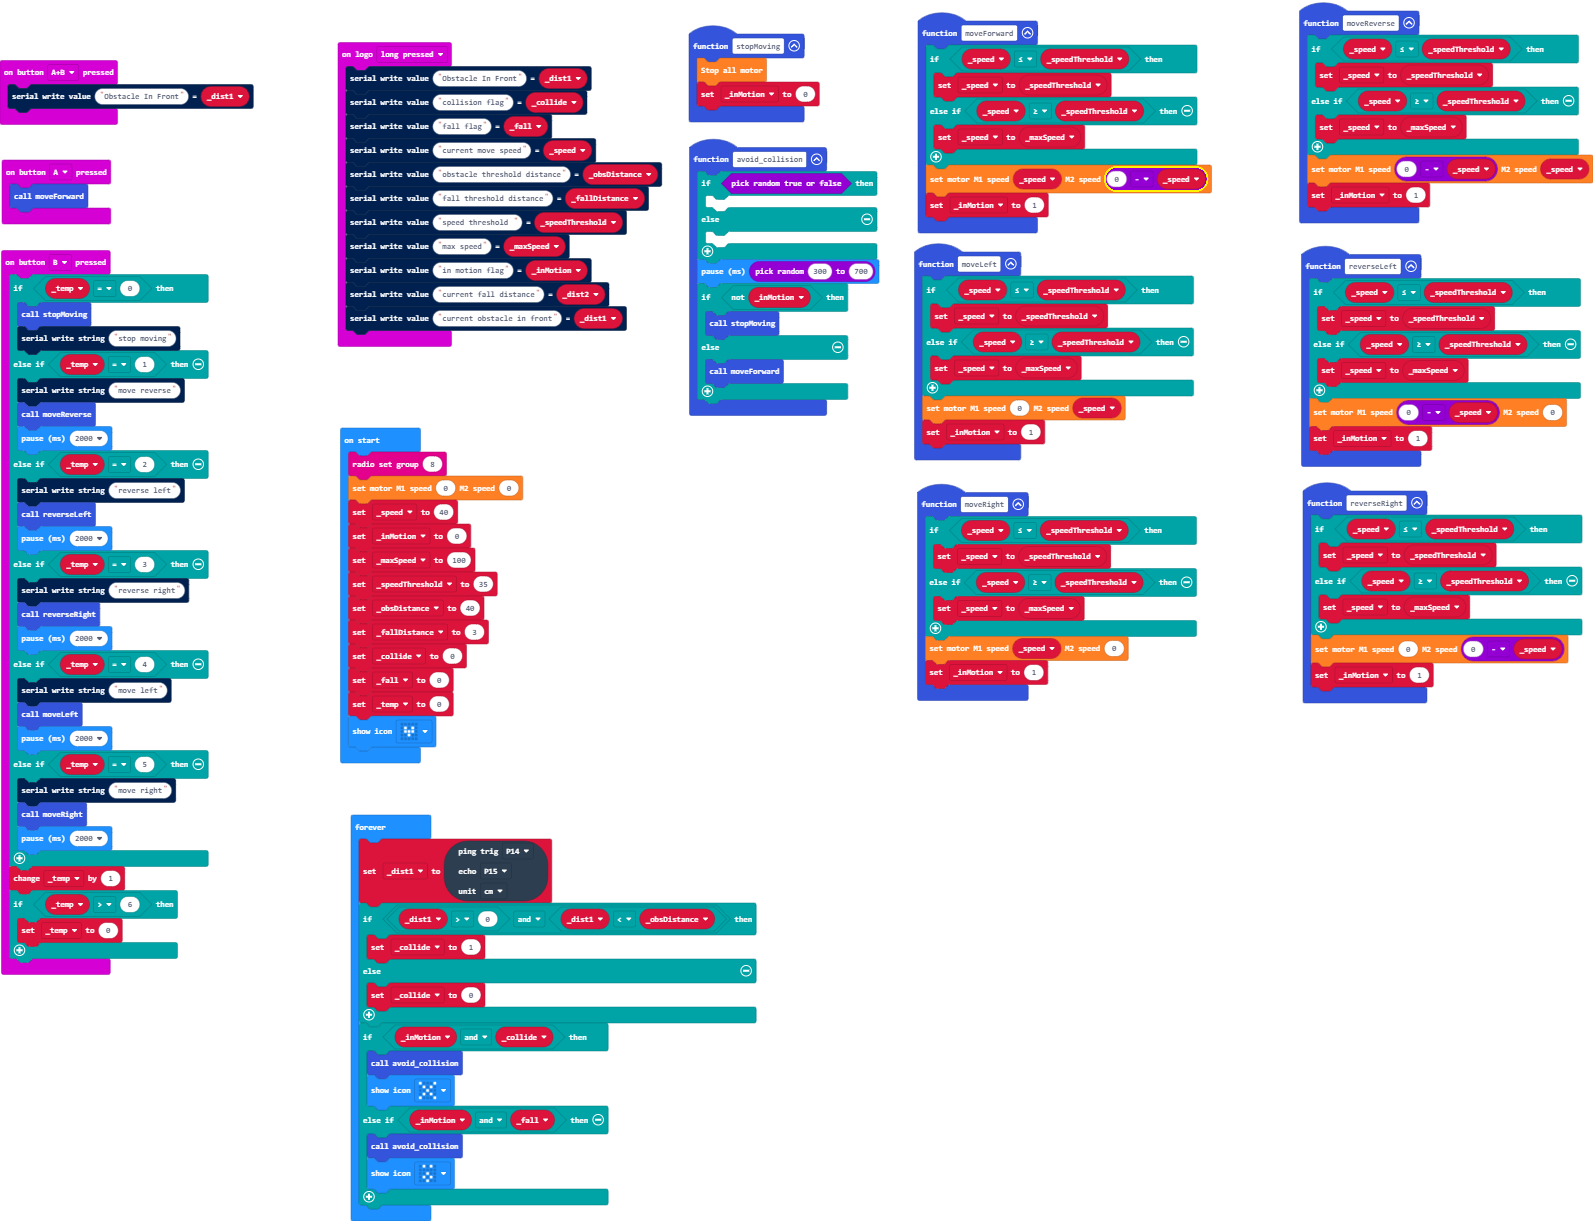
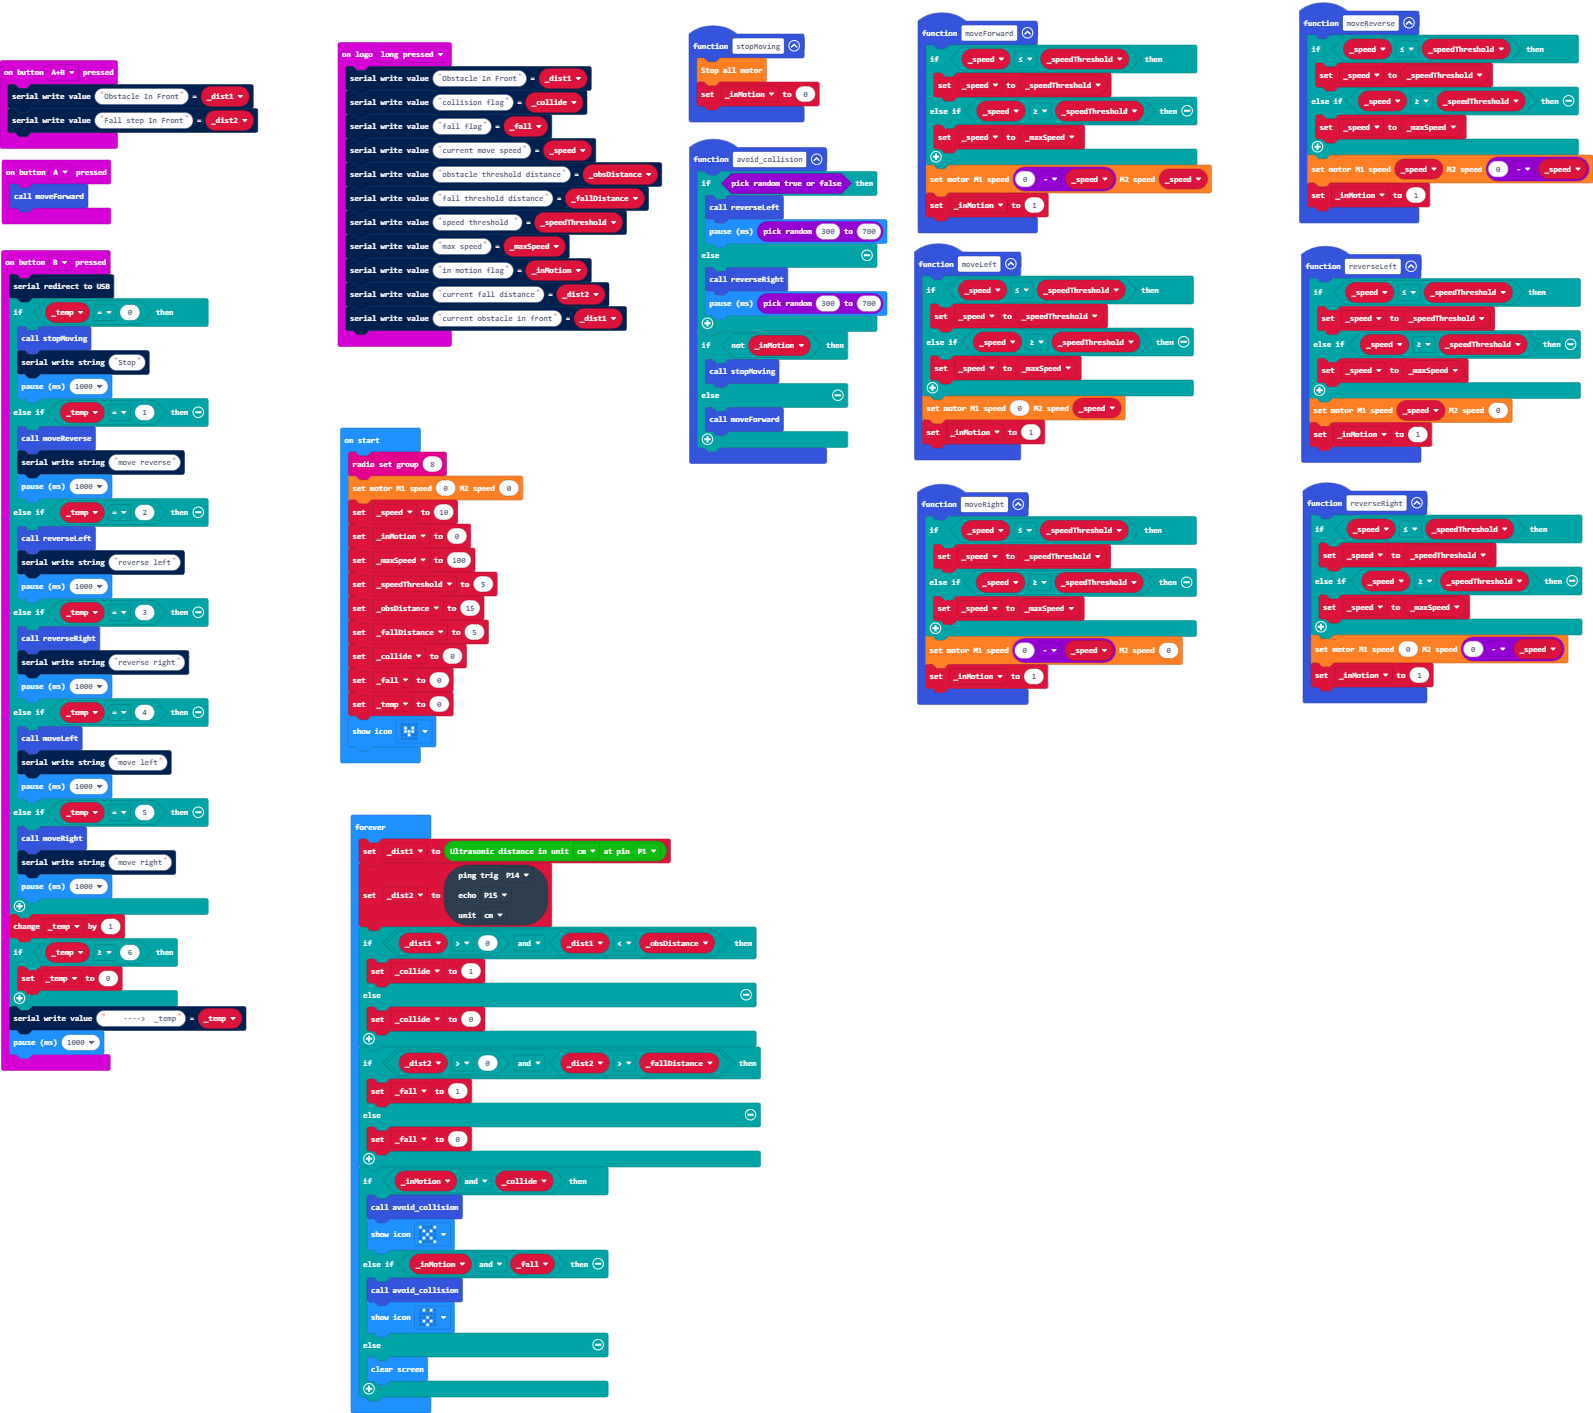
Update pxt.json, main.blocks, main.ts

diff --git a/main.ts b/main.ts
@@ -4,7 +4,7 @@ function moveReverse () {
     } else if (_speed >= _speedThreshold) {
         _speed = _maxSpeed
     }
-    wuKong.setAllMotor(0 - _speed, _speed)
+    wuKong.setAllMotor(_speed, 0 - _speed)
     _inMotion = 1
 }
 function moveRight () {
@@ -13,7 +13,7 @@ function moveRight () {
     } else if (_speed >= _speedThreshold) {
         _speed = _maxSpeed
     }
-    wuKong.setAllMotor(_speed, 0)
+    wuKong.setAllMotor(0 - _speed, 0)
     _inMotion = 1
 }
 function moveForward () {
@@ -22,16 +22,17 @@ function moveForward () {
     } else if (_speed >= _speedThreshold) {
         _speed = _maxSpeed
     }
-    wuKong.setAllMotor(_speed, 0 - _speed)
+    wuKong.setAllMotor(0 - _speed, _speed)
     _inMotion = 1
 }
 function avoid_collision () {
     if (Math.randomBoolean()) {
-    	
+        reverseLeft()
+        basic.pause(randint(300, 700))
     } else {
-    	
+        reverseRight()
+        basic.pause(randint(300, 700))
     }
-    basic.pause(randint(300, 700))
     if (!(_inMotion)) {
         stopMoving()
     } else {
@@ -39,7 +40,6 @@ function avoid_collision () {
     }
 }
 input.onLogoEvent(TouchButtonEvent.LongPressed, function () {
-    let _dist2 = 0
     serial.writeValue("Obstacle In Front", _dist1)
     serial.writeValue("collision flag", _collide)
     serial.writeValue("fall flag", _fall)
@@ -65,41 +65,46 @@ function reverseLeft () {
     } else if (_speed >= _speedThreshold) {
         _speed = _maxSpeed
     }
-    wuKong.setAllMotor(0 - _speed, 0)
+    wuKong.setAllMotor(_speed, 0)
     _inMotion = 1
 }
 input.onButtonPressed(Button.AB, function () {
     serial.writeValue("Obstacle In Front", _dist1)
+    serial.writeValue("Fall step In Front", _dist2)
 })
 input.onButtonPressed(Button.B, function () {
+    serial.redirectToUSB()
     if (_temp == 0) {
         stopMoving()
-        serial.writeString("stop moving")
+        serial.writeString("Stop")
+        basic.pause(1000)
     } else if (_temp == 1) {
-        serial.writeString("move reverse")
         moveReverse()
-        basic.pause(2000)
+        serial.writeString("move reverse")
+        basic.pause(1000)
     } else if (_temp == 2) {
-        serial.writeString("reverse left")
         reverseLeft()
-        basic.pause(2000)
+        serial.writeString("reverse left")
+        basic.pause(1000)
     } else if (_temp == 3) {
-        serial.writeString("reverse right")
         reverseRight()
-        basic.pause(2000)
+        serial.writeString("reverse right")
+        basic.pause(1000)
     } else if (_temp == 4) {
-        serial.writeString("move left")
         moveLeft()
-        basic.pause(2000)
+        serial.writeString("move left")
+        basic.pause(1000)
     } else if (_temp == 5) {
-        serial.writeString("move right")
         moveRight()
-        basic.pause(2000)
+        serial.writeString("move right")
+        basic.pause(1000)
     }
     _temp += 1
-    if (_temp > 6) {
+    if (_temp >= 6) {
         _temp = 0
     }
+    serial.writeValue("    ---->  _temp", _temp)
+    basic.pause(1000)
 })
 function reverseRight () {
     if (_speed <= _speedThreshold) {
@@ -119,6 +124,7 @@ function moveLeft () {
     wuKong.setAllMotor(0, _speed)
     _inMotion = 1
 }
+let _dist2 = 0
 let _dist1 = 0
 let _temp = 0
 let _fall = 0
@@ -131,18 +137,19 @@ let _inMotion = 0
 let _speed = 0
 radio.setGroup(8)
 wuKong.setAllMotor(0, 0)
-_speed = 40
+_speed = 10
 _inMotion = 0
 _maxSpeed = 100
-_speedThreshold = 35
-_obsDistance = 40
-_fallDistance = 3
+_speedThreshold = 5
+_obsDistance = 15
+_fallDistance = 5
 _collide = 0
 _fall = 0
 _temp = 0
 basic.showIcon(IconNames.SmallHeart)
 basic.forever(function () {
-    _dist1 = sonar.ping(
+    _dist1 = sonarbit.sonarbit_distance(Distance_Unit.Distance_Unit_cm, DigitalPin.P1)
+    _dist2 = sonar.ping(
     DigitalPin.P14,
     DigitalPin.P15,
     PingUnit.Centimeters
@@ -152,11 +159,18 @@ basic.forever(function () {
     } else {
         _collide = 0
     }
+    if (_dist2 > 0 && _dist2 > _fallDistance) {
+        _fall = 1
+    } else {
+        _fall = 0
+    }
     if (_inMotion && _collide) {
         avoid_collision()
         basic.showIcon(IconNames.No)
     } else if (_inMotion && _fall) {
         avoid_collision()
         basic.showIcon(IconNames.Surprised)
+    } else {
+        basic.clearScreen()
     }
 })
